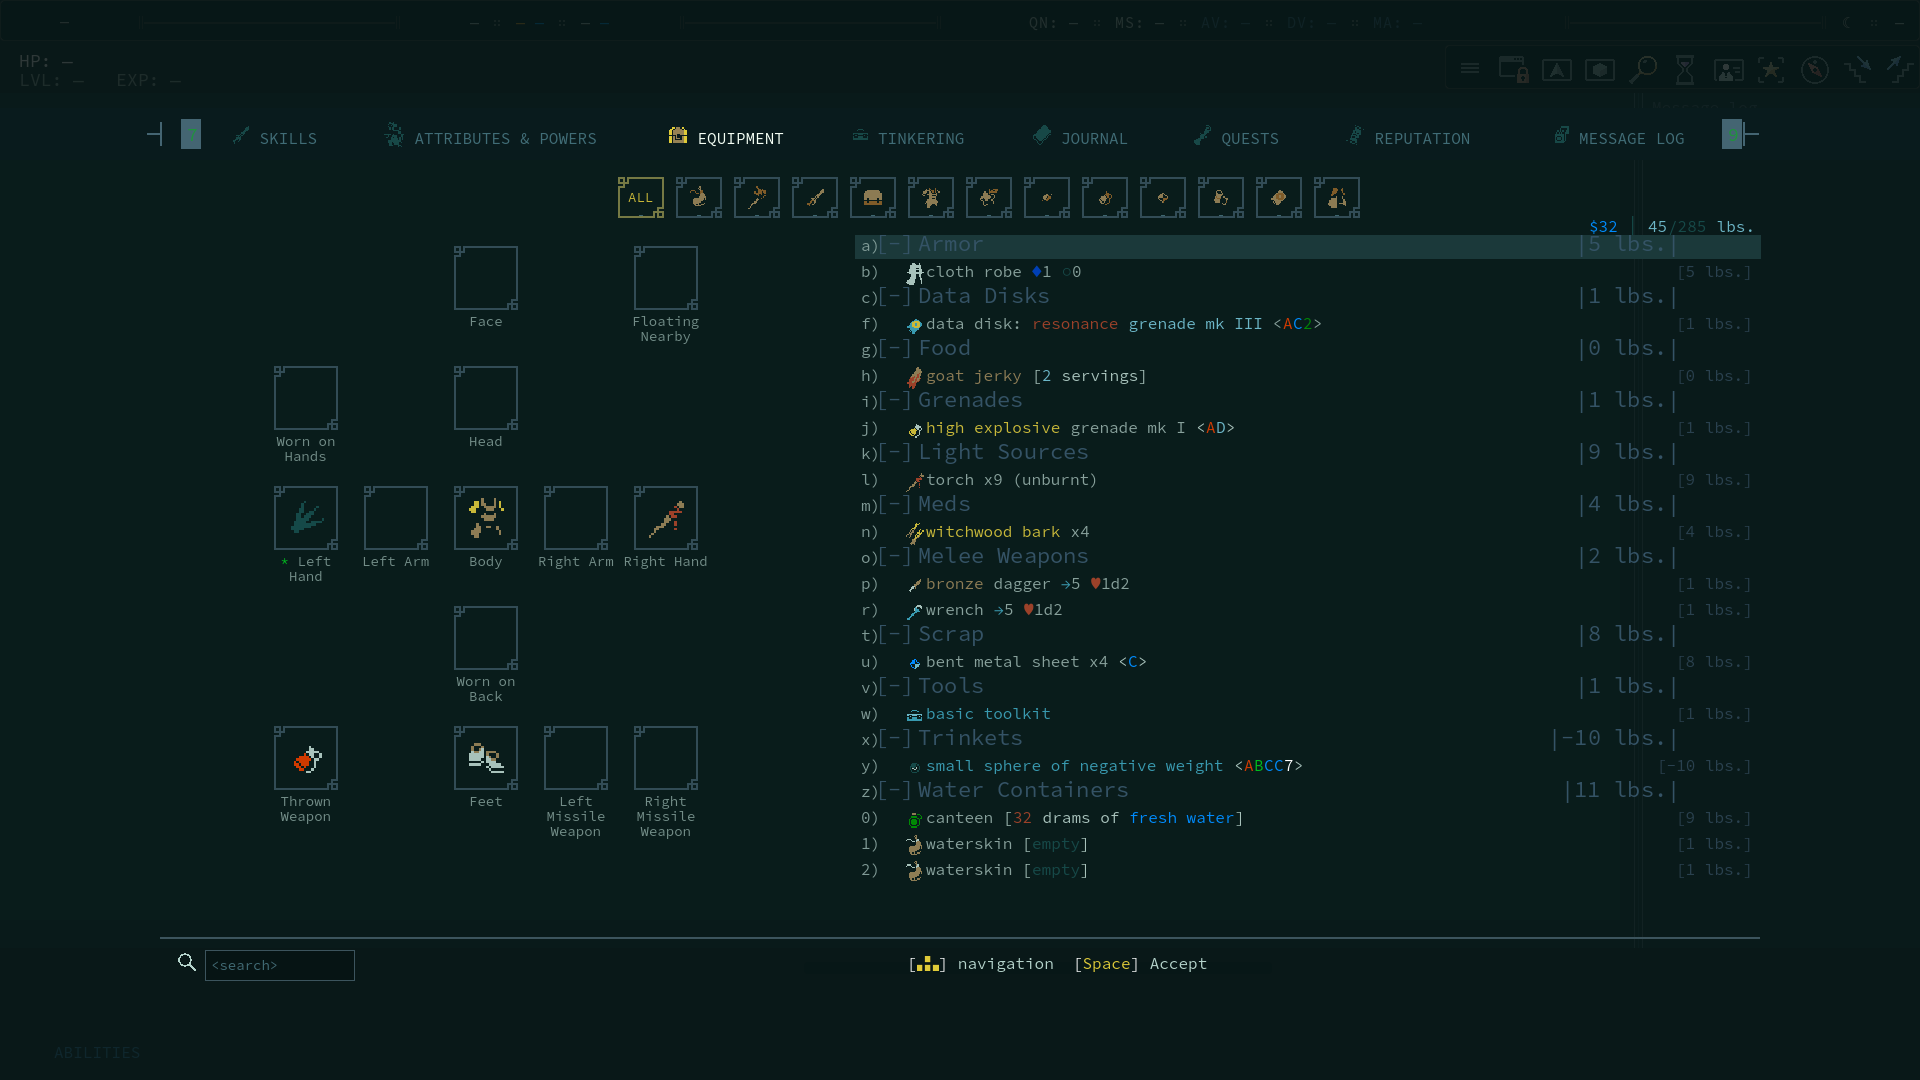
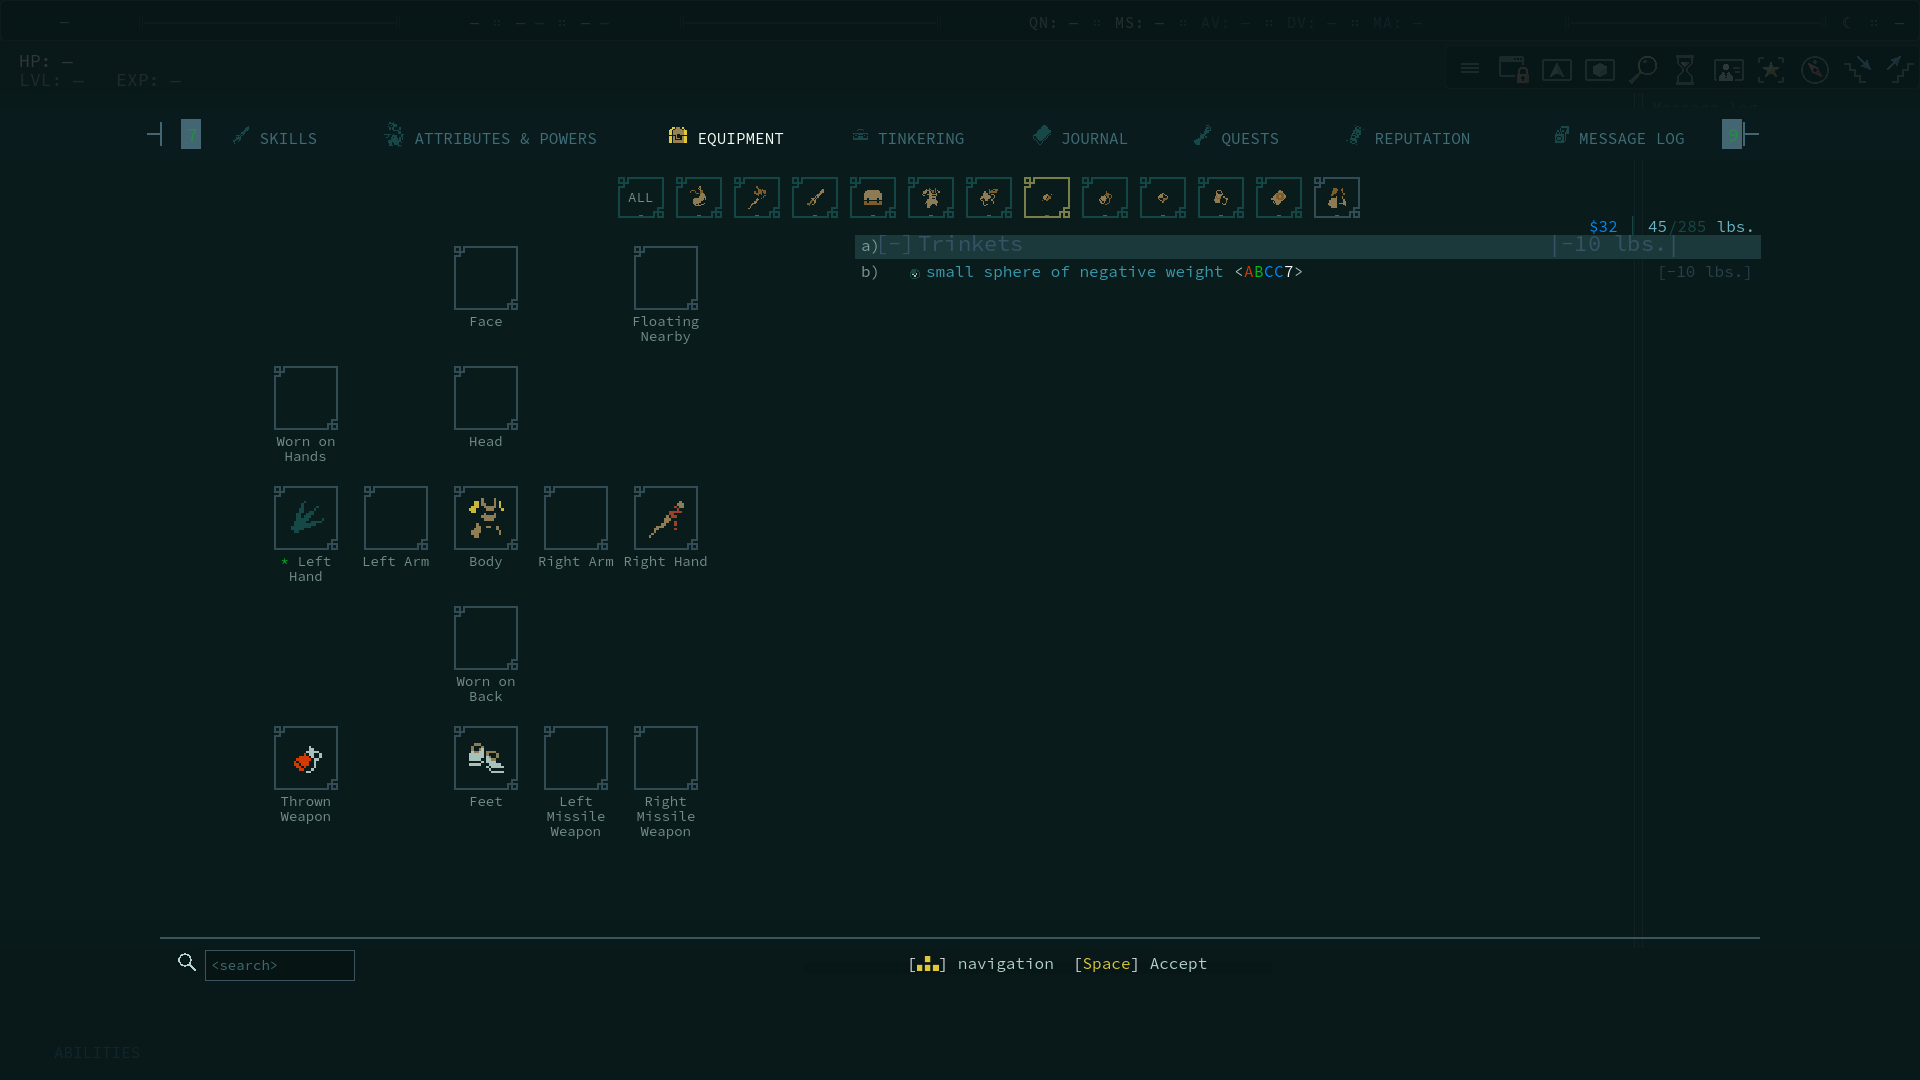
Equipment: draw the filter strip's live colours instead of deriving them
FilterBarCategoryButton.LateUpdate paints its background from four states but
only ON CHANGE, so a button nobody has toggled keeps its prefab colour while
one that has been keeps #134F4E. Which a given cell shows depends on the
save's entire interaction history, so it cannot be derived from outside --
modelling it left every cell ~8 off and put the enabled one on the wrong
index (filter_frame[3] read 20.14 against its neighbours' 8.38).

The mod now reads background.color per category, plus the "*All" button's, and
the client draws exactly that; the four-state law stays as the fallback for an
older mod build or a screen whose buttons are not loaded. Hover remains
client-side, being ours to render.

One trap worth the note it got: the strip builds each cell from the CATEGORY
object and merges the icon in from filterOrder, so a colour added to
filterOrder was silently dropped and the cell went on deriving what it was
meant to stop deriving. Copy every field you need, not the first one you
noticed.

filter frames 8.38-20.14 -> 1.50-2.87, filter cells -> 1.79-3.72.
Screen totals: composite 4.32 -> 3.20, frame 6.42 -> 2.55.

diff --git a/mod/InventoryExporter.cs b/mod/InventoryExporter.cs
@@ -335,11 +335,34 @@ namespace RavesOfQud
                     if (!seen.Contains(kv.Value)) seen.Add(kv.Value);
                 // objects, not bare names: a category can be EQUIPPED-ONLY (e.g. Clothes)
                 // and so have no list entry to borrow an icon from
+                // The strip's LIVE colours, per category. FilterBarCategoryButton.LateUpdate
+                // paints `background` from four states -- enabled+focused #FFFFFF, enabled
+                // #858951, focused #4A757E, else #134F4E -- but ONLY when the state changes,
+                // so a button nobody has ever toggled keeps its prefab colour instead. That
+                // is unmodellable from outside: whether a cell is #134F4E or prefab depends
+                // on the save's whole interaction history. Read what each button IS.
+                var filterColors = new Dictionary<string, string>();
+                try
+                {
+                    foreach (var fb in UnityEngine.Resources.FindObjectsOfTypeAll<Qud.UI.FilterBarCategoryButton>())
+                    {
+                        if (fb == null || fb.background == null) continue;
+                        if (!fb.gameObject.activeInHierarchy) continue;   // pooled copies lie
+                        if (string.IsNullOrEmpty(fb.category)) continue;
+                        var c = fb.background.color;
+                        filterColors[fb.category] = string.Format("#{0:x2}{1:x2}{2:x2}",
+                            (int)(c.r * 255f), (int)(c.g * 255f), (int)(c.b * 255f));
+                    }
+                }
+                catch (Exception fe) { System.Console.WriteLine("[raves] filter colours: " + fe.Message); }
+
                 j.Name("filterOrder").BeginArray();
                 foreach (string n in seen)
                 {
                     j.BeginObject();
                     j.Member("name", n);
+                    string fcol;
+                    if (filterColors.TryGetValue(n, out fcol)) j.Member("color", fcol);
                     try
                     {
                         string ic;
@@ -354,6 +377,13 @@ namespace RavesOfQud
                     j.EndObject();
                 }
                 j.EndArray();
+                // and the "*All" cell, which is a FilterBarCategoryButton like any other
+                try
+                {
+                    string allCol;
+                    if (filterColors.TryGetValue("*All", out allCol)) j.Member("allColor", allCol);
+                }
+                catch { }
             }
             catch (Exception e) { System.Console.WriteLine("[raves] filter order: " + e.Message); }
 

diff --git a/docs/gotchas.md b/docs/gotchas.md
@@ -381,3 +381,17 @@ enumerated anywhere.
 
 **The general shape:** an allow-list you must remember to extend is a trap. State it as the small
 closed set of things that are wrong, not the open set of things that are fine.
+- **Ship the filter strip's LIVE colours; its state is not derivable.**
+  `FilterBarCategoryButton.LateUpdate` paints `background` from four states, but only ON CHANGE,
+  so a button nobody has ever toggled keeps its PREFAB colour while one that has been toggled
+  keeps `#134F4E`. Which of those a given cell shows depends on the save's whole interaction
+  history -- unknowable from outside. Modelling it left every cell ~8 off and put the enabled
+  one on the wrong index. The mod now reads `background.color` per category (plus the "*All"
+  button's) and the client draws exactly that, falling back to the four-state law only when no
+  live colour rides along. Hover stays client-side, since that is ours to render.
+  Caveat: the colours are only readable while Qud's equipment screen is OPEN -- its buttons are
+  inactive otherwise, and the export correctly omits them rather than shipping stale ones.
+- When merging two export lists into one view, **copy every field you need, not the first one you
+  noticed**: the strip took its icon from `filterOrder` and its base object from `categories`, so
+  a colour added to `filterOrder` was silently dropped and the cell kept deriving what it was
+  meant to stop deriving.
